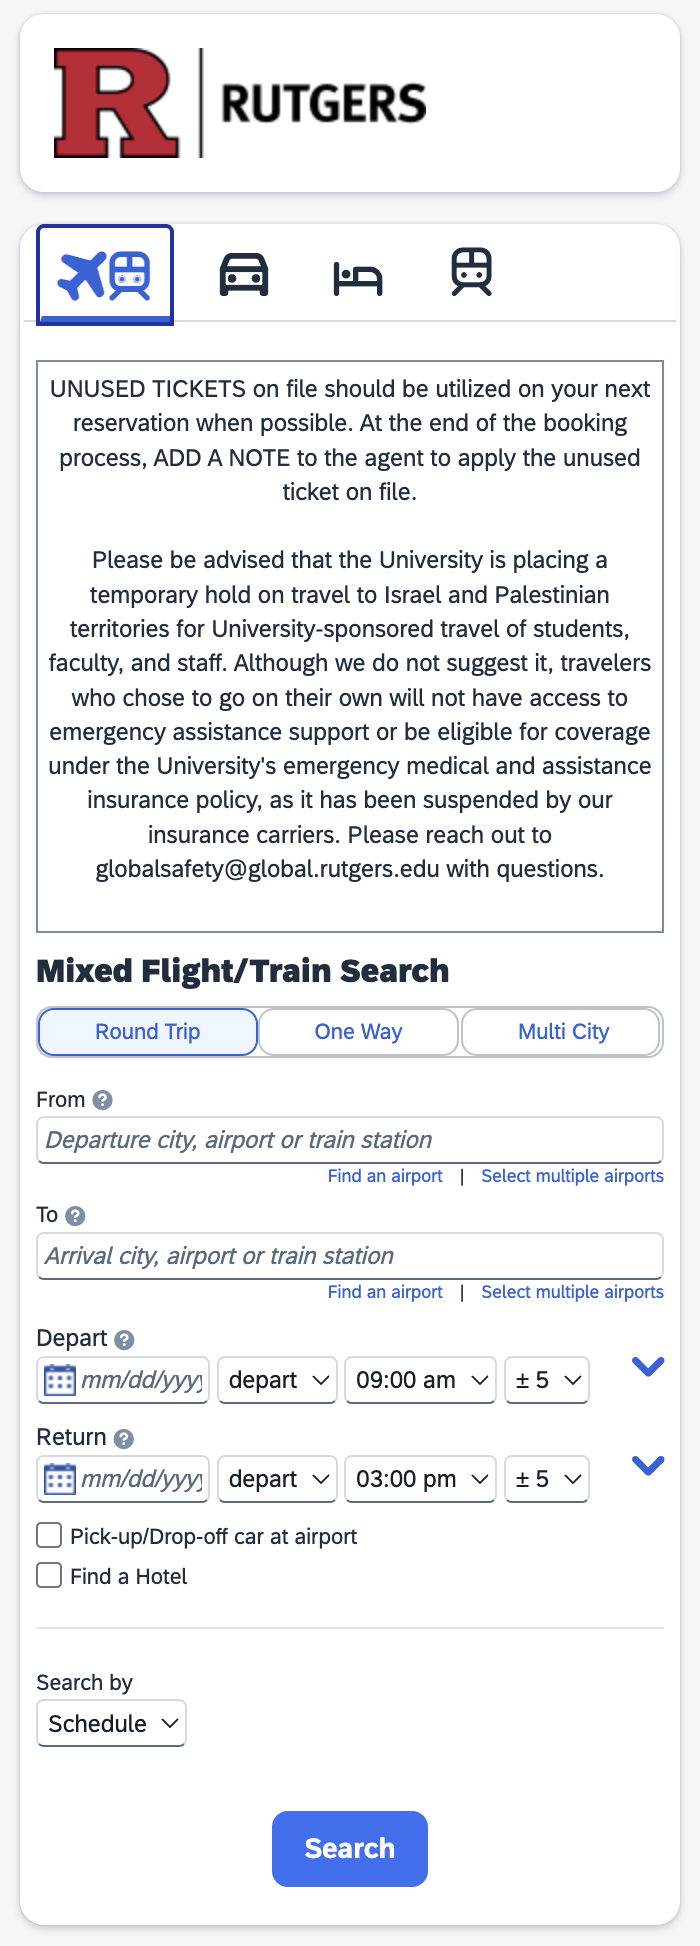
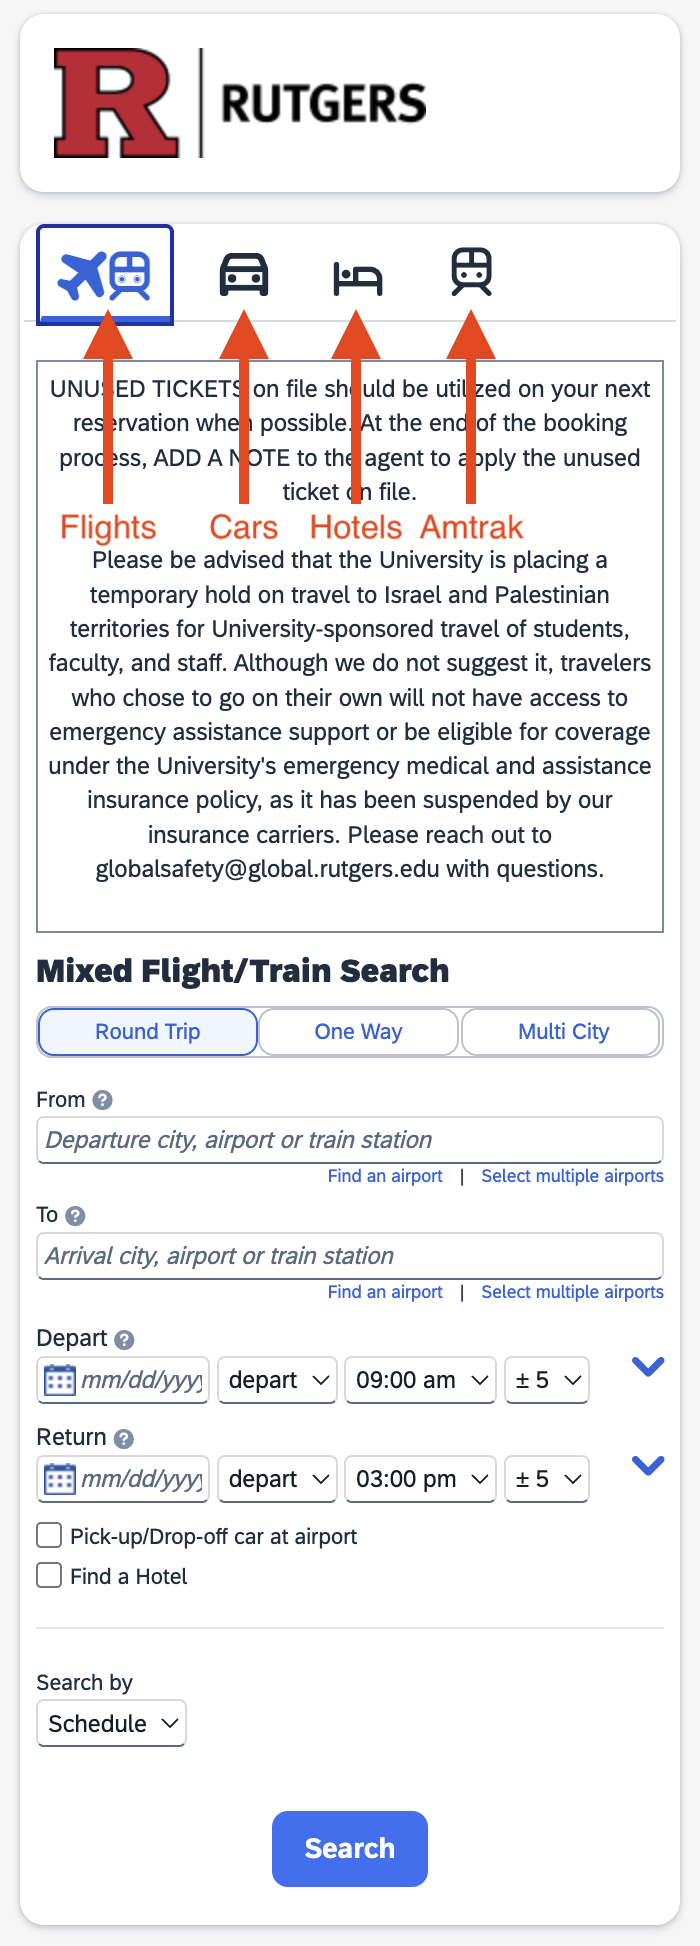
edits to travel tutorial

diff --git a/docs/rutgers/booking_travel.md b/docs/rutgers/booking_travel.md
@@ -19,15 +19,21 @@ has_toc: true
 
 # Using Concur
 
-All travel and reimbursements at the SNaP Lab are processed via **Concur**. This is a two-step process that involves (i) submitting a request for travel authorization *before* you travel and (ii) submitting an expense report after you return from travel. Note, you cannot submit a reimbursement request without an approved travel request.
+All travel and reimbursements at the SNaP Lab are processed via **Concur**. This is a three-step process that involves (1) submitting a request for travel authorization *before* you travel, (2) booking travel either via **Concur** or on your own, and (3) submitting an expense report after you return from travel. Note, you cannot submit a reimbursement request (3) without an approved travel request (1).
 
-You can access **Concur** through your **myRutgers Portal**. First, navigate to the Apps page and open `Concur Travel & Expense` (note, you can save this as a favorite for easier access later). You should be taken to a page that looks like this:
+{: .note-title }
+> Important
+>
+> While you can book certain things yourself and get reimbursed, it is preferable to book your trip directly through **Concur**. This minimizes your out-of-pocket expenses. Also, Rutgers *requires* that we book flights via **Concur**; *you cannot book these yourself*.
+>
+
+You can access **Concur** through your **myRutgers Portal**. First, navigate to the `Apps` page and open `Concur Travel & Expense`. Note, you can save this as a favorite for easier access later. You should be taken to a page that looks like this:
 
 <img src="{{ site.baseurl }}/assets/images/concur_travel/concur_home.png" alt="" width="800">
 
-# Submitting a travel authorization request before you travel
+## Step (1) Submitting a travel authorization request before you travel
 
-Before you travel, you need to submit a travel authorization request. To do so, navigate your cursor to the `Requests` box on your **Concur** home page and click the + button (red arrow):
+Before you travel, you need to submit a travel authorization request. To do so, navigate your cursor to the `Requests` box on your **Concur** home page and click the + button (see red arrow):
 
 <img src="{{ site.baseurl }}/assets/images/concur_travel/concur_home_arrow.png" alt="" width="800">
 
@@ -35,42 +41,52 @@ This should bring up a window that looks like this:
 
 <img src="{{ site.baseurl }}/assets/images/concur_travel/create_request.png" alt="" width="800">
 
-This window has five sections in it separated by horizontal gray lines (see red numbers). You only need to *modify sections 2 and 3*. Here is an example of a modified section 2:
+This window has 5 sections separated by horizontal gray lines (see red numbers). You only need to modify sections 2 and 3. *Do not modify sections 4 and 5*. Here is an example of a modified section 2:
 
 <img src="{{ site.baseurl }}/assets/images/concur_travel/create_request_section2.png" alt="" width="800">
 
-For section 3, you will need to provide a `Project.Task` number. This will vary between travel requests. Please contract Linden for an appropriate value. Note, do not modify any of the codes in sections 4 and 5. Once you've completed sections 2 and 3, click `Create Request` and you will be taken to a blank request page. On this page, there are two buttons to focus on: `Manage Travel Allowance` and `+ Add`:
+For section 3, you will need to provide a `Project.Task` number. This will vary between travel requests. Please contact Linden for an appropriate value. Once you've completed sections 2 and 3, click the blue `Create Request` button and you will be taken to a blank request page. On this page, there are two buttons to focus on: `Manage Travel Allowance` and `+ Add`:
 
 <img src="{{ site.baseurl }}/assets/images/concur_travel/blank_request.png" alt="" width="800">
 
-Let's start with `Manage Travel Allowance`. Clicking this button will open a page that allows you fill out information needed to optinally add per-diem expenses to your trip. Note, information does not need to be exact at this stage. Simply fill out your start and end locations and approximate times (e.g., 9am to 5pm) and click `Next`. On the subsequent page, you will be given an option to add days that you want to request reimbursements for. The rates are determined by Rutgers. Note, the tick boxes code for days you want to *exclude* from your per-diem request, not the days you want to *include* in your request. If you want to claim the full per-diem amount, leave all boxes blank. Click `Finish`.
+Let's start with `Manage Travel Allowance`. Clicking this button will open a page that allows you fill out information needed to optionally add per-diem expenses to your trip. Note, information does not need to be exact at this stage. Simply fill out your start and end locations and approximate times (e.g., 9am to 5pm) and click `Next`. On the subsequent page, you will be given an option to add days that you want to request reimbursements for. The rates are determined by Rutgers. Note, the tick boxes code for days you want to *exclude* from your per-diem request, not the days you want to *include* in your request. If you want to claim the full per-diem amount, leave all boxes blank and click `Finish`.
 
-Next, let's look at the `+ Add` button. Clicking this button will allow you to add estimates for Airfare, Accomodation, and Conference Registration Fees. In each of these cases, the estimates do not need to be exact. Just enter in your best attempt at an accurate estimate and click `Save`.
+Next, let's look at the `+ Add` button. Clicking this button will allow you to add estimates for `Airfare`, `Accomodation`, and `Conference Registration Fees`. In each of these cases, the estimates do not need to be exact. Just enter in your best attempt at an accurate estimate and click `Save`.
 
-Once you've filled out your request, click the blue `Submit Request` in the top right corner. Once submitted, the request will be routed to the Department of Psychiatry for approval. Once it has been approved, you can book your travel.
+Once you've filled out your request, click the blue `Submit Request` in the top right corner. The request will be routed to the Department of Psychiatry for approval. Approval is typically done within a week, sometimes within 24 hrs. Once it has been approved, you can book your travel.
 
-# Booking travel via Concur directly
+## Step (2) Booking travel via Concur directly
 
-While you can book certain things yourself and get reimbursed (see below), it is preferable to book as much of your trip as possible directly through **Concur**. This minimizes your out-of-pocket expenses. Also, Rutgers *requires* that we book flights via **Concur**; *you cannot book these yourself*. Flights, cars, hotels, and Amtrak trains can all be booked using **Concur**. All of these can be searched and booked using the widget on the left hand side of the homepage:
+`Flights`, `Cars`, `Hotels`, and `Amtrak` can all be booked using **Concur**. All of these can be searched and booked using the widget on the left hand side of the homepage:
 
 <img src="{{ site.baseurl }}/assets/images/concur_travel/concur_booking_widget.png" alt="" width="250">
 
-# Submitting a expense report after you travel
+Once you have booked one of the above options, a `Rutgers AirCard` expense item will be created that will live in your **Concur** until you return from your trip and add it to your expense report. Note, you will sometimes get automated emails warning you that you have unassigned expenses lingering in your **Concur** profile. You can ignore these for now.
 
-Once you get back from your trip---and assuming you have an approved travel authorization request---you're ready to submit the final expense report. Note, this is where you will get your out-of-pocket expenses reimbursed. To start, navigate to your approved request that you submitted above. Once loaded, you should see that the blue button that used to say `Submit Request` now says `Create Expense Report`: 
+## Step (3) Submitting a expense report after you travel
+
+Once you get back from your trip---and assuming you have an approved travel authorization request---you're ready to submit the final expense report. Note, this is where you will get your out-of-pocket expenses reimbursed if there are any. To start, navigate to your approved travel request that you submitted above. Once loaded, you should see that the blue button that used to say `Submit Request` now says `Create Expense Report`: 
 
 <img src="{{ site.baseurl }}/assets/images/concur_travel/approved_request.png" alt="" width="800">
 
-Click `Create Expense Report` and you will be taken to a page that looks just like the travel authorization request. Note, if everything worked, you should see your approved request referenced in the top left corner of your newly created expense report. The process is similar to the above, but now with more detail. Use the `Travel Allowance` and the `+ Add Expense` button to add your per-diem and your final expenses. The key difference between the travel request and expense report is that the latter requires receipts for all expenses (except for per-diem). 
+Click `Create Expense Report` and you will be taken to a page that looks just like the travel authorization request. Note, if everything worked, you should see your approved request referenced in the top left corner of your newly created expense report. The process of completing an expense report is similar to completing the initial travel request, but now with more detail. Use the `Travel Allowance` and the `+ Add Expense` button to add your per-diem and your final expenses. The key difference between the travel request and expense report is that the latter requires receipts for all expenses (except for per-diem). 
 
-Let's walk through an example of adding an expense. First, click `+ Add Expense` and then toggle to the `New Expense` tab in the subsequent window. From that window, select `Conference/Seminar Registration Fees`. This will bring up the following window:
+{: .note-title }
+> Important
+>
+> Regarding per-diem expenses. If you prefer, you can itemize your daily expenses to reimburse the exact amount of your out-of-pocket expenses. In this case, you would not request per-diem reimbursement. That is, you would not add any form of travel allowance to your expense report, and would instead add specific daily expenses as separate expense items using the `+ Add Expense` button. If you want to go this route, you will need to save receipts for every single thing you want reimbursed, including taxis, food, drink etc.
+>
+
+Let's walk through an example of adding an expense. First, click `+ Add Expense` and a window will open. This window has two tabs, `New Expense` and `Available Expenses`. You will find the `Rutgers AirCard` expense items mentioned above in the `Available Expenses` tab. You can select the relevant expenses and add them to the report. Once you've added any `Rutgers AirCard` expense items, you can toggle to the `New Expense` tab to add out-of-pocket expenses. For example, if you select `Conference/Seminar Registration Fees`, this will bring up the following window:
 
 <img src="{{ site.baseurl }}/assets/images/concur_travel/new_expense.png" alt="" width="800">
 
-You will need to fill out all the boxes marked with a red asterisk. Most importantly, you will also need to upload a receipt (click `Add Receipt` button) and add `Attendees`. For the latter, you just need to add yourself as an attendee. Finally, for `Conference/Seminar Registration Fees` in particular, you will need to also upload some evidence of conference attendance (e.g., a conference program booklet or attendence certificate). See below for an example of a completed `Conference/Seminar Registration Fees` expense:
+You will need to fill out all the boxes marked with a red asterisk. Most importantly, you will also need to upload a receipt (click `Add Receipt` button) and add `Attendees`. For the latter, you just need to add yourself as an attendee. Finally, for `Conference/Seminar Registration Fees` in particular, you will need to also upload some evidence of conference attendance (e.g., a conference program booklet or attendance certificate). See below for an example of a completed `Conference/Seminar Registration Fees` expense:
 
 <img src="{{ site.baseurl }}/assets/images/concur_travel/completed_expense.png" alt="" width="800">
 
-Once completed, click `Save Expense` in the bottom left and you will be brought back to the report page. From there you can more expenses.
+Once completed, click `Save Expense` in the bottom left and you will be brought back to the report page. From there you can add more expenses.
 
-Once completed, click `Submit Report`. You may encounter errors along the way. If you have any questions, please ask Linden.
+Once you've added all your `Rutgers AirCard` and out-of-pocket expenses, click `Submit Report`.
+
+Note, you may encounter errors along the way. If you have any questions, please ask Linden. Also, if you have any feedback that would make this tutorial clearer, please speak up!
